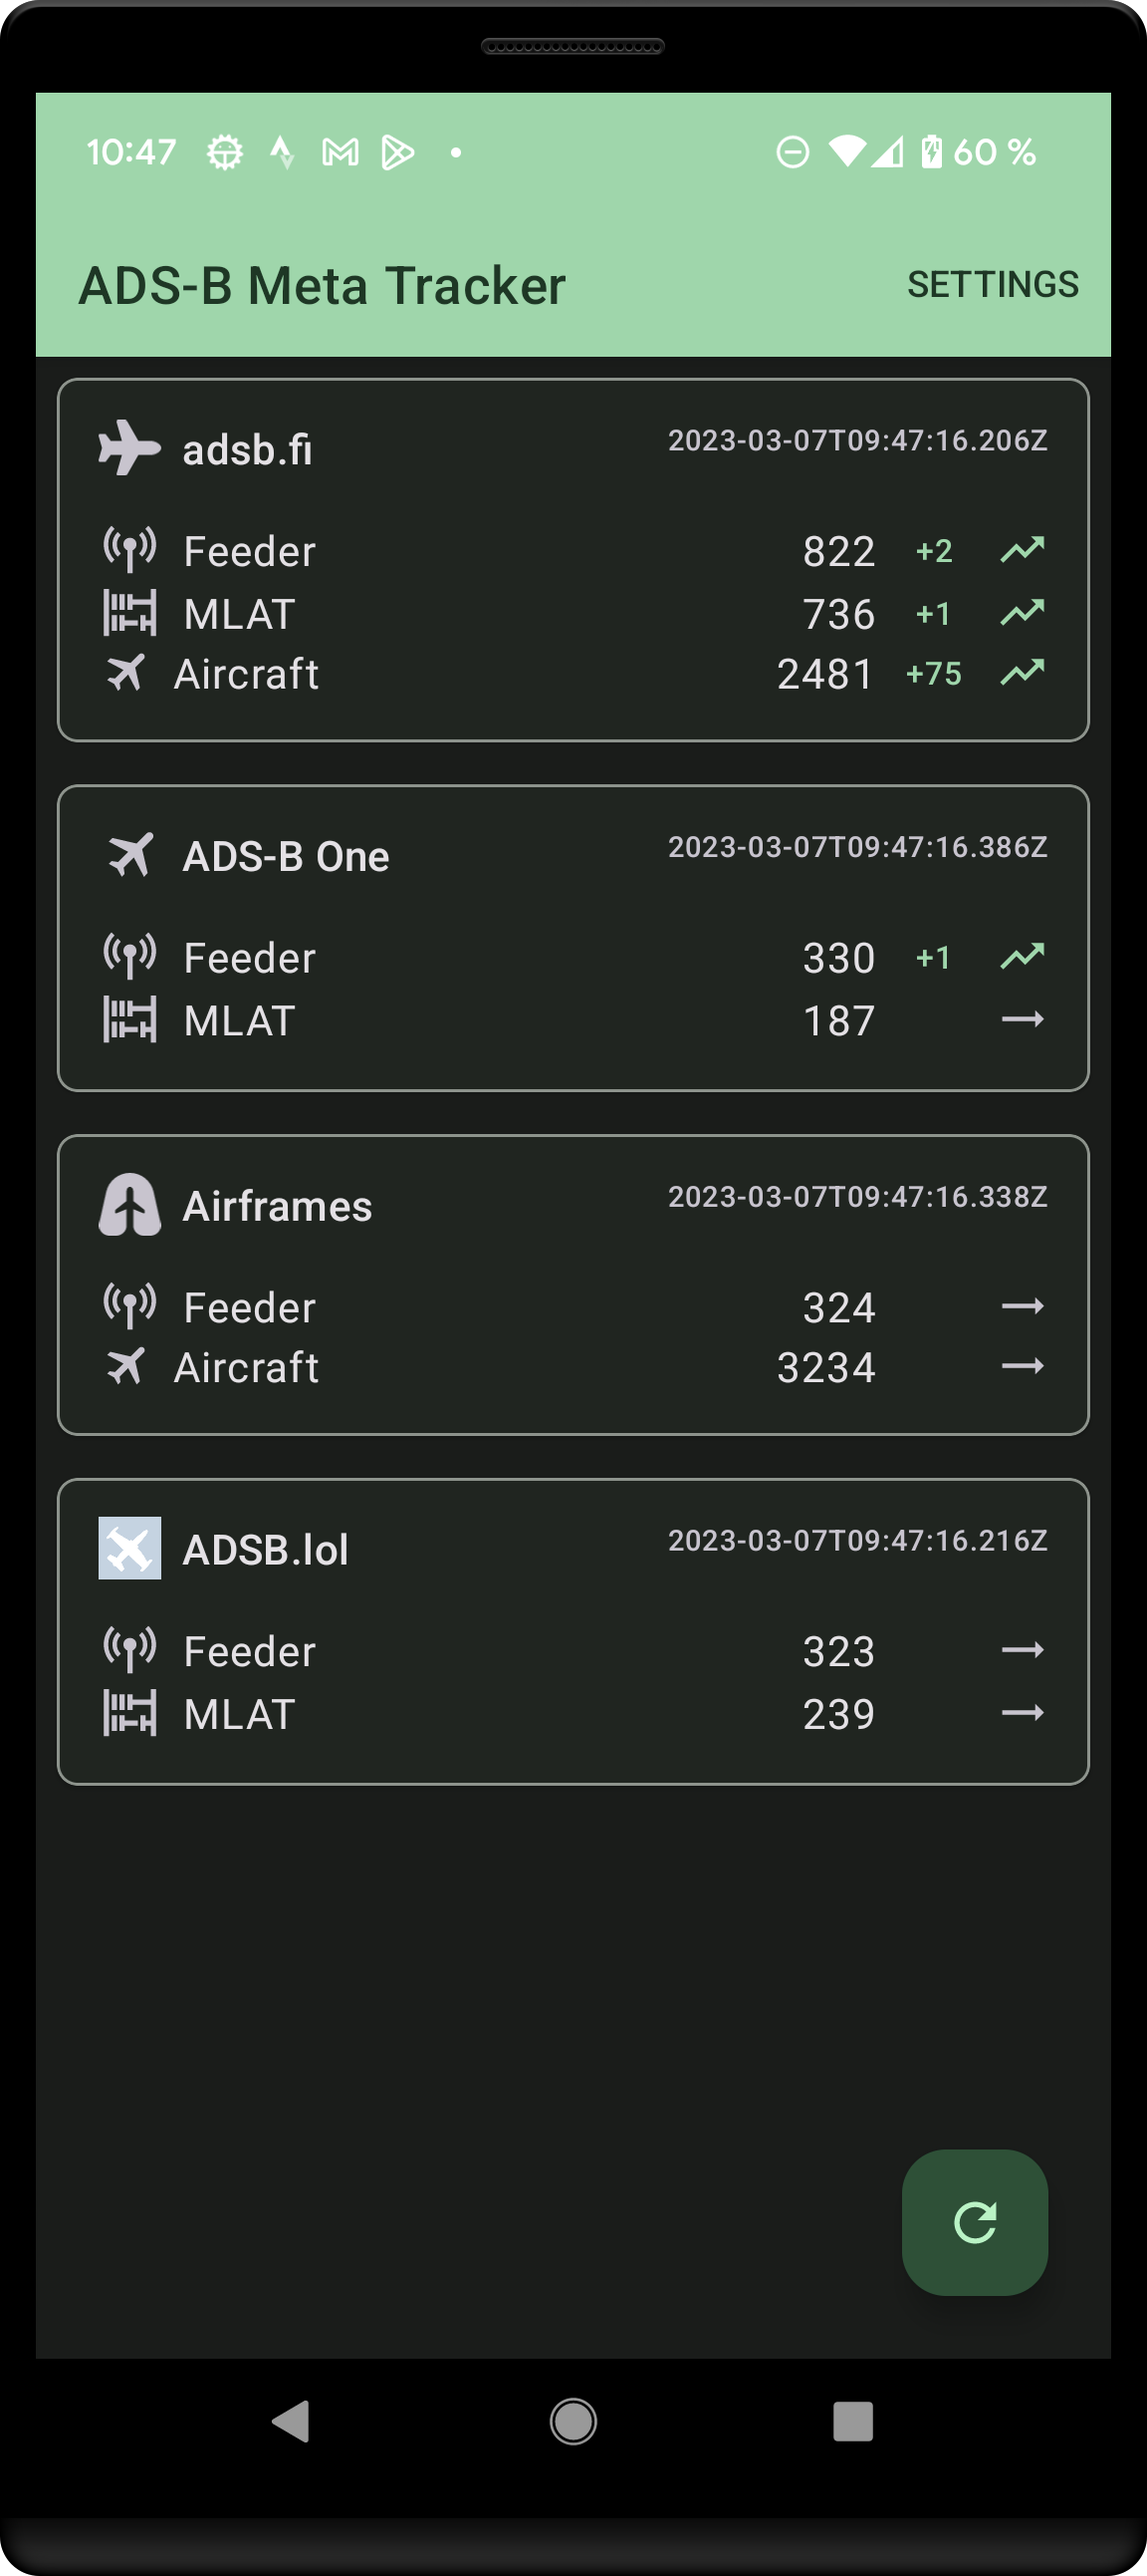
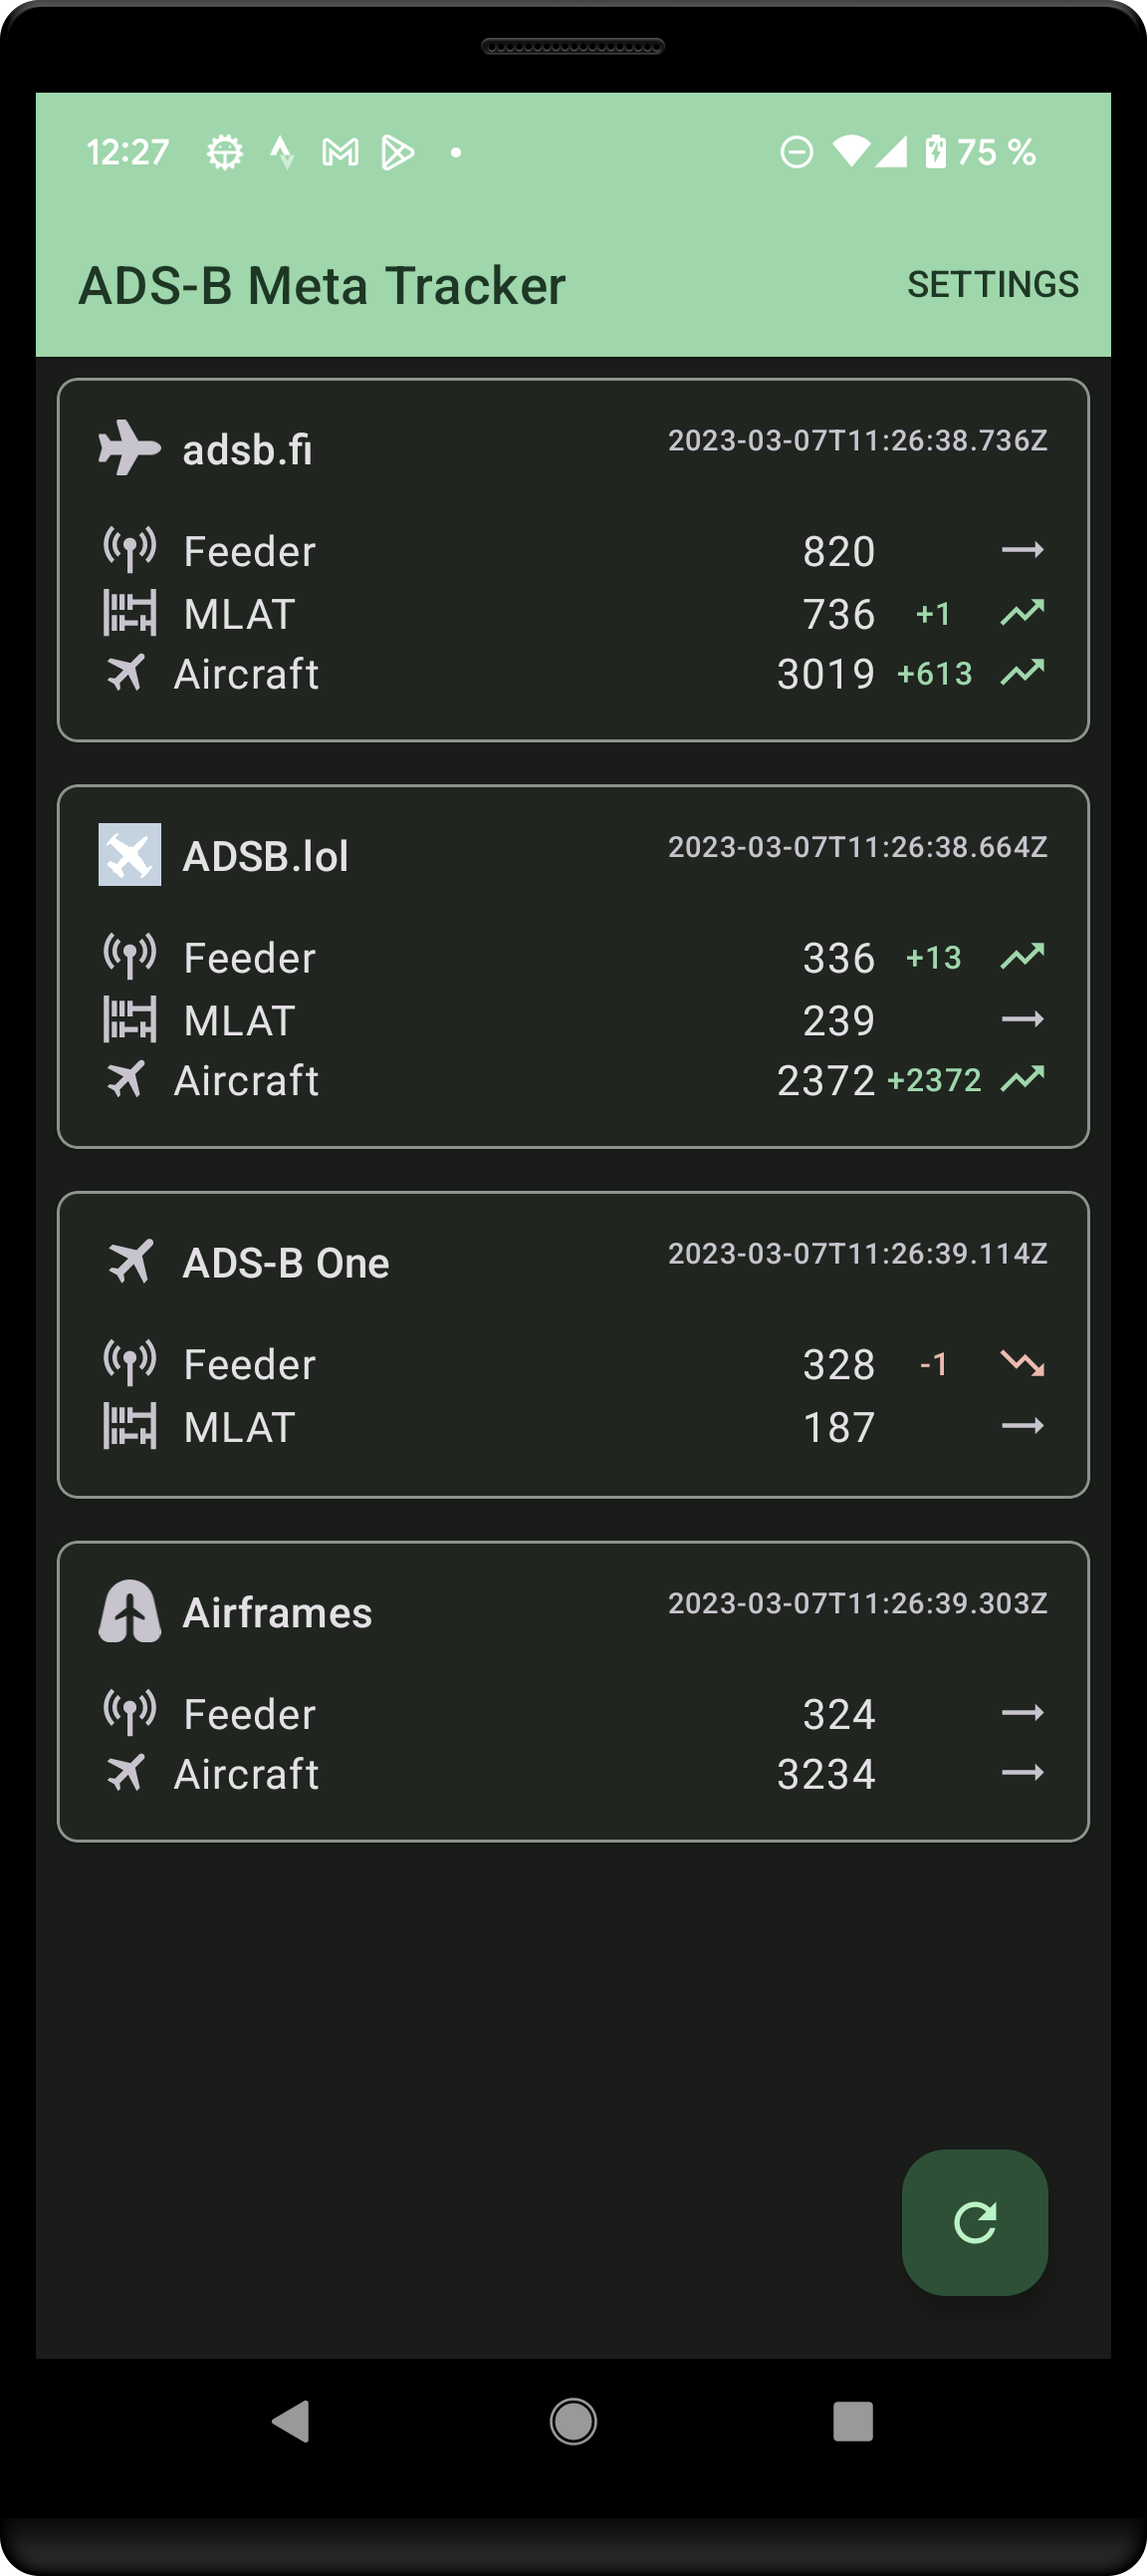
Add aircraft data to adsb.lol

diff --git a/app/src/main/java/eu/darken/adsbmt/adsblol/core/api/AdsbLolStatsApiV1.kt b/app/src/main/java/eu/darken/adsbmt/adsblol/core/api/AdsbLolStatsApiV1.kt
@@ -1,14 +1,42 @@
 package eu.darken.adsbmt.adsblol.core.api
 
+import com.squareup.moshi.Json
+import com.squareup.moshi.JsonClass
 import retrofit2.http.GET
 
 interface AdsbLolStatsApiV1 {
 
+
+    @JsonClass(generateAdapter = true)
+    data class Data(
+        @Json(name = "global") val global: Global,
+    ) {
+        @JsonClass(generateAdapter = true)
+        data class Global(
+            @Json(name = "beast") val beast: Int,
+            @Json(name = "mlat") val mlat: Int,
+            @Json(name = "planes") val planes: Int,
+        )
+    }
+
     /**
-     * adsb_api_beast_total_receivers 323
-     * adsb_api_beast_total_clients 343
-     * adsb_api_mlat_total 239
-     */
-    @GET("metrics")
-    suspend fun getMetrics(): String
+    {
+    "client_ip": "...",
+    "clients": {
+    "beast": [],
+    "mlat": []
+    },
+    "feeding": {
+    "beast": false,
+    "mlat": false
+    },
+    "global": {
+    "beast": 334,
+    "mlat": 239,
+    "planes": 2318
+    }
+    }
+     **/
+    @GET("api/0/me")
+    suspend fun getMe(): Data
 }

diff --git a/app/src/main/java/eu/darken/adsbmt/adsblol/core/api/AdsbLolEndpoint.kt b/app/src/main/java/eu/darken/adsbmt/adsblol/core/api/AdsbLolEndpoint.kt
@@ -37,13 +37,12 @@ class AdsbLolEndpoint @Inject constructor(
     suspend fun getNetworkStats(): NetworkStats = withContext(dispatcherProvider.IO) {
         log(TAG) { "getNetworkStats()" }
 
-        val metrics = api.getMetrics().split("\n")
-        val feederActiveRaw = metrics[0]
-        val mlatActiveRaw = metrics[2]
+        val metrics = api.getMe()
 
         NetworkStats(
-            beastFeeders = feederActiveRaw.split(" ").last().toInt(),
-            mlatFeeders = mlatActiveRaw.split(" ").last().toInt(),
+            beastFeeders = metrics.global.beast,
+            mlatFeeders = metrics.global.mlat,
+            aircraftActive = metrics.global.planes,
         )
 
     }
@@ -51,6 +50,7 @@ class AdsbLolEndpoint @Inject constructor(
     data class NetworkStats(
         val beastFeeders: Int,
         val mlatFeeders: Int,
+        val aircraftActive: Int,
     )
 
     companion object {

diff --git a/app/src/main/java/eu/darken/adsbmt/networkstats/core/NetworkStatsRepo.kt b/app/src/main/java/eu/darken/adsbmt/networkstats/core/NetworkStatsRepo.kt
@@ -89,6 +89,8 @@ class NetworkStatsRepo @Inject constructor(
                 feederActiveDiff = previous?.feederActive ?: 0,
                 mlatActive = latest?.mlatActive ?: 0,
                 mlatActiveDiff = previous?.mlatActive ?: 0,
+                aircraftActive = latest?.aircraftActive ?: 0,
+                aircraftActiveDiff = previous?.aircraftActive ?: 0,
                 updatedAt = latest?.createdAt ?: Instant.EPOCH
             )
         },
@@ -163,6 +165,7 @@ class NetworkStatsRepo @Inject constructor(
                 val statsEntity = AdsbLolNetworkStatsEntity(
                     feederActive = stats.beastFeeders,
                     mlatActive = stats.mlatFeeders,
+                    aircraftActive = stats.aircraftActive,
                     createdAt = Instant.now()
                 )
                 val rowId = database.adsbLol.insert(statsEntity)

diff --git a/app/src/main/java/eu/darken/adsbmt/networkstats/core/db/NetworkStatsRoomDb.kt b/app/src/main/java/eu/darken/adsbmt/networkstats/core/db/NetworkStatsRoomDb.kt
@@ -1,5 +1,6 @@
 package eu.darken.adsbmt.networkstats.core.db
 
+import androidx.room.AutoMigration
 import androidx.room.Database
 import androidx.room.RoomDatabase
 import androidx.room.TypeConverters
@@ -20,9 +21,9 @@ import eu.darken.adsbmt.common.room.InstantConverter
         AdsbLolNetworkStatsEntity::class,
         AirframesNetworkStatsEntity::class,
     ],
-    version = 1,
+    version = 2,
     autoMigrations = [
-
+        AutoMigration(1, 2)
     ],
     exportSchema = true,
 )

diff --git a/app/src/main/java/eu/darken/adsbmt/adsblol/core/db/AdsbLolNetworkStatsEntity.kt b/app/src/main/java/eu/darken/adsbmt/adsblol/core/db/AdsbLolNetworkStatsEntity.kt
@@ -10,5 +10,6 @@ data class AdsbLolNetworkStatsEntity(
     @PrimaryKey(autoGenerate = true) val id: Long = 0,
     @ColumnInfo(name = "feeder_active") val feederActive: Int,
     @ColumnInfo(name = "mlat_active") val mlatActive: Int,
+    @ColumnInfo(name = "aircraft_active", defaultValue = "0") val aircraftActive: Int,
     @ColumnInfo(name = "created_at") val createdAt: Instant,
 )

diff --git a/app/src/main/java/eu/darken/adsbmt/adsblol/core/AdsbLolStats.kt b/app/src/main/java/eu/darken/adsbmt/adsblol/core/AdsbLolStats.kt
@@ -10,5 +10,7 @@ data class AdsbLolStats(
     override val feederActiveDiff: Int,
     override val mlatActive: Int,
     override val mlatActiveDiff: Int,
+    override val aircraftActive: Int,
+    override val aircraftActiveDiff: Int,
     override val updatedAt: Instant,
-) : NetworkStats, NetworkStats.Mlat
+) : NetworkStats, NetworkStats.Mlat, NetworkStats.Aircraft
